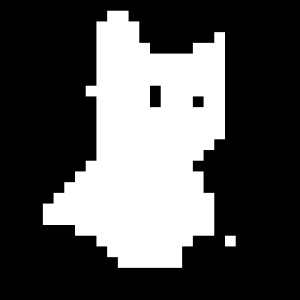
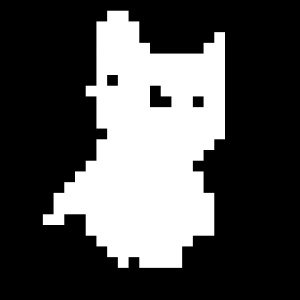
Clean up quantization process to be more accurate.

diff --git a/pixelator/pixelator.py b/pixelator/pixelator.py
@@ -90,23 +90,14 @@ class Picture_Utils:
                 - Type: list of lists
                 - What: A list of BGR lists for quantizing the image
         """
-        palette = numpy.array(palette).astype(numpy.float32)
-        hsv_palette = cv2.cvtColor(
-            numpy.reshape(palette, (1,) + palette.shape), cv2.COLOR_BGR2HSV
-        ).reshape(palette.shape)
-        hsv_image_vector = (
-            cv2.cvtColor(image, cv2.COLOR_BGR2HSV)
-            .reshape(-1, 3)
-            .astype(numpy.float32)
-        )
-        # Use KNN to quantize
-        knn = cv2.ml.KNearest_create()
-        knn.train(hsv_palette, cv2.ml.ROW_SAMPLE, numpy.arange(len(palette)))
-        ret, results, neighbours, dist = knn.findNearest(hsv_image_vector, 1)
-        # Return the array as numpy in the correct shape as float 32 (to match cv2)
-        return numpy.array(
-            [palette[idx] for idx in neighbours.astype(int)]
-        ).reshape(image.shape)
+        image = image.astype(numpy.int16)
+        quantized_image = numpy.zeros_like(image)
+        palette = numpy.array(palette, dtype=numpy.int16)
+        for i in range(image.shape[0]):
+            for j in range(image.shape[1]):
+                quantized_image[i, j] = palette[numpy.argmin(numpy.sum(numpy.absolute((palette - image[i, j])), axis=1))]
+        return quantized_image.astype(numpy.uint8)
+
 
     @staticmethod
     def capture(cam_port: int = 0):
@@ -261,7 +252,7 @@ class Pixelator(Picture_Utils):
         """
         if width == None or height == None:
             (height, width) = self.data.shape[:2]
-        cv2.imwrite(filename, self.resize(self.data, width, height))
+        cv2.imwrite(filename, self.resize(self.data, width, height).astype(numpy.uint8))
 
     def get_color_counts(self):
         """

diff --git a/test/test_2.py b/test/test_2.py
@@ -3,13 +3,12 @@ from pixelator import Pixelator
 image = Pixelator(filename='./images/input.jpg')
 # Define a custom palette
 palette = [
-    [50,50,45],     #black
-    [64,68,240],    #red
+    [0,0,0],        #black
+    [50,50,45],     #darkgrey
+    [244,169,245],  #pink
     [223,223,211],  #white
-    [67,161,160],   #green
-    [76,129,233],   #orange
+    [134,171,209],  #brown
 ]
-
 
 # Pixelate the image to a 28x28 black and white array
 pixelated_image = image.pixelate(
@@ -17,9 +16,11 @@ pixelated_image = image.pixelate(
     height=28,
     palette=palette
 )
-# Write to `output.png` scaled up to a 500x500 image (to be easily viewed)
-pixelated_image.write(filename='./images/output_test_2.jpg', width=300, height=300)
+# Write to `output.png` scaled up to a 300x300 image (to be easily viewed)
+# pixelated_image.write(filename='./images/output_test_2.jpg', width=300, height=300)
+
 # Test that the color counts are correct
 color_counts = pixelated_image.get_color_counts()
-expected_color_counts = {(50, 50, 45): 248, (64, 68, 240): 8, (67, 161, 160): 394, (76, 129, 233): 104, (223, 223, 211): 30}
+expected_color_counts = {(0, 0, 0): 360, (50, 50, 45): 163, (134, 171, 209): 168, (223, 223, 211): 93}
 assert color_counts == expected_color_counts, "Expected color counts is not correct for test_2.py"
+print("Test 2 passed")

diff --git a/test/test_3.py b/test/test_3.py
@@ -1,4 +1,11 @@
 from pixelator import Pixelator
+
+# If the os is a docker image, exit the program
+import os
+if os.path.exists("/.dockerenv"):
+    print("Test 3 skipped (cannot run in docker)")
+    exit()
+
 # Capture from a webcam since no data or filename is provided
 image = Pixelator()
 
@@ -10,3 +17,5 @@ pixelated_image = image.pixelate(
 )
 # Write to `output.png` scaled up to a 500x500 image (to be easily viewed)
 pixelated_image.write(filename='./images/output_test_3.jpg', width=300, height=300)
+
+print("Test 3 passed")

diff --git a/test/test_1.py b/test/test_1.py
@@ -9,3 +9,11 @@ pixelated_image = image.pixelate(
 )
 # Write to `output.png` scaled up to a 500x500 image (to be easily viewed)
 pixelated_image.write(filename='./images/output_test_1.jpg', width=300, height=300)
+
+# Test that the color counts are correct
+color_counts = pixelated_image.get_color_counts()
+expected_color_counts = {(0, 0, 0): 542, (255, 255, 255): 242}
+
+assert color_counts == expected_color_counts, "Expected color counts is not correct for test_1.py"
+
+print("Test 1 passed")
